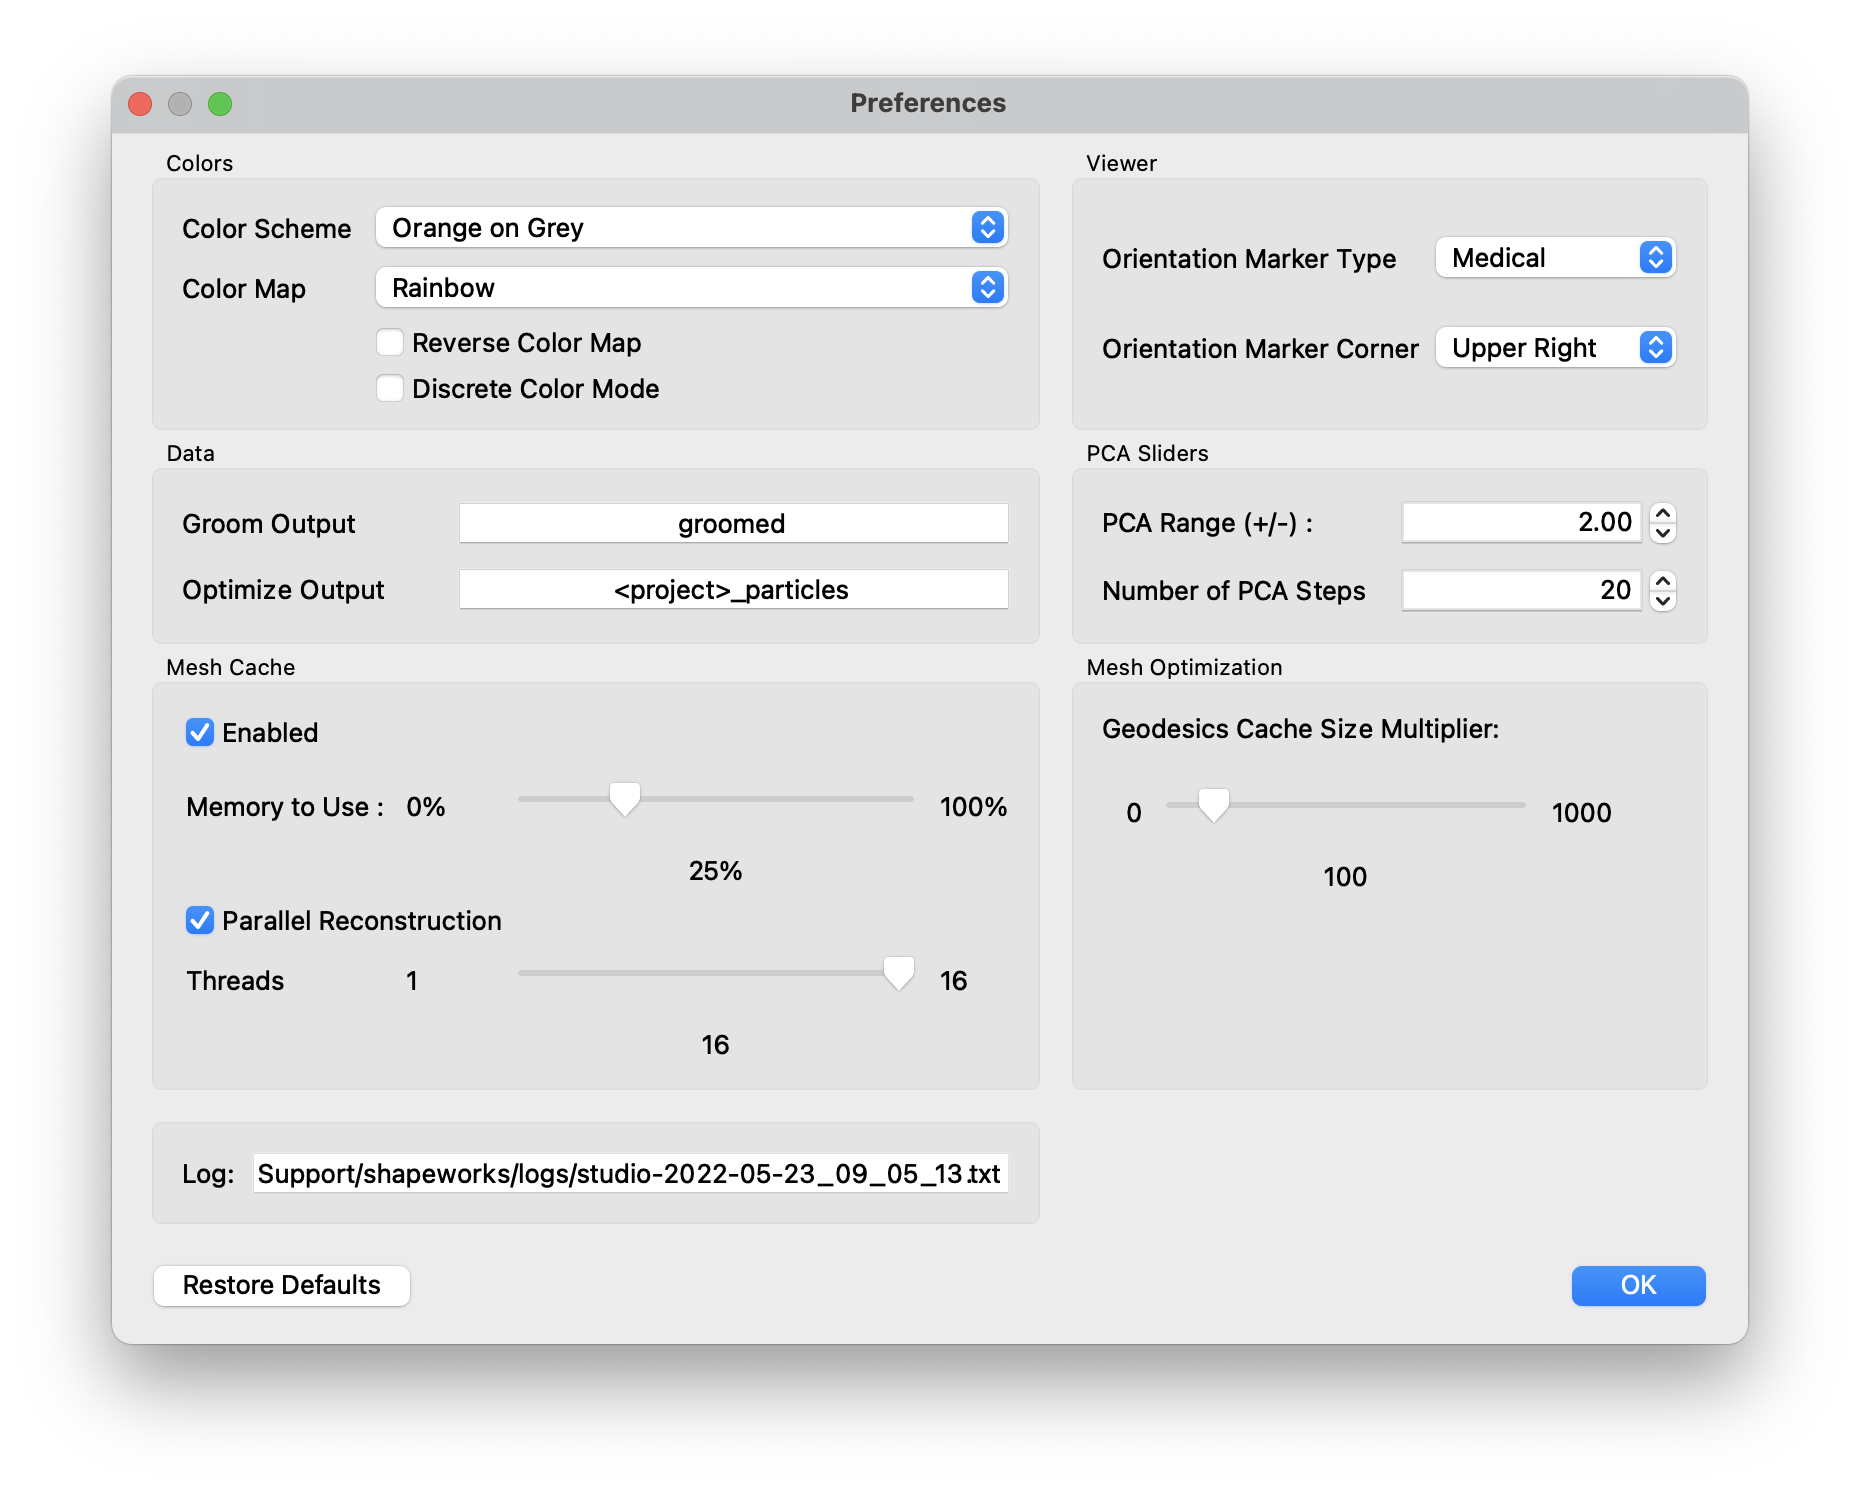
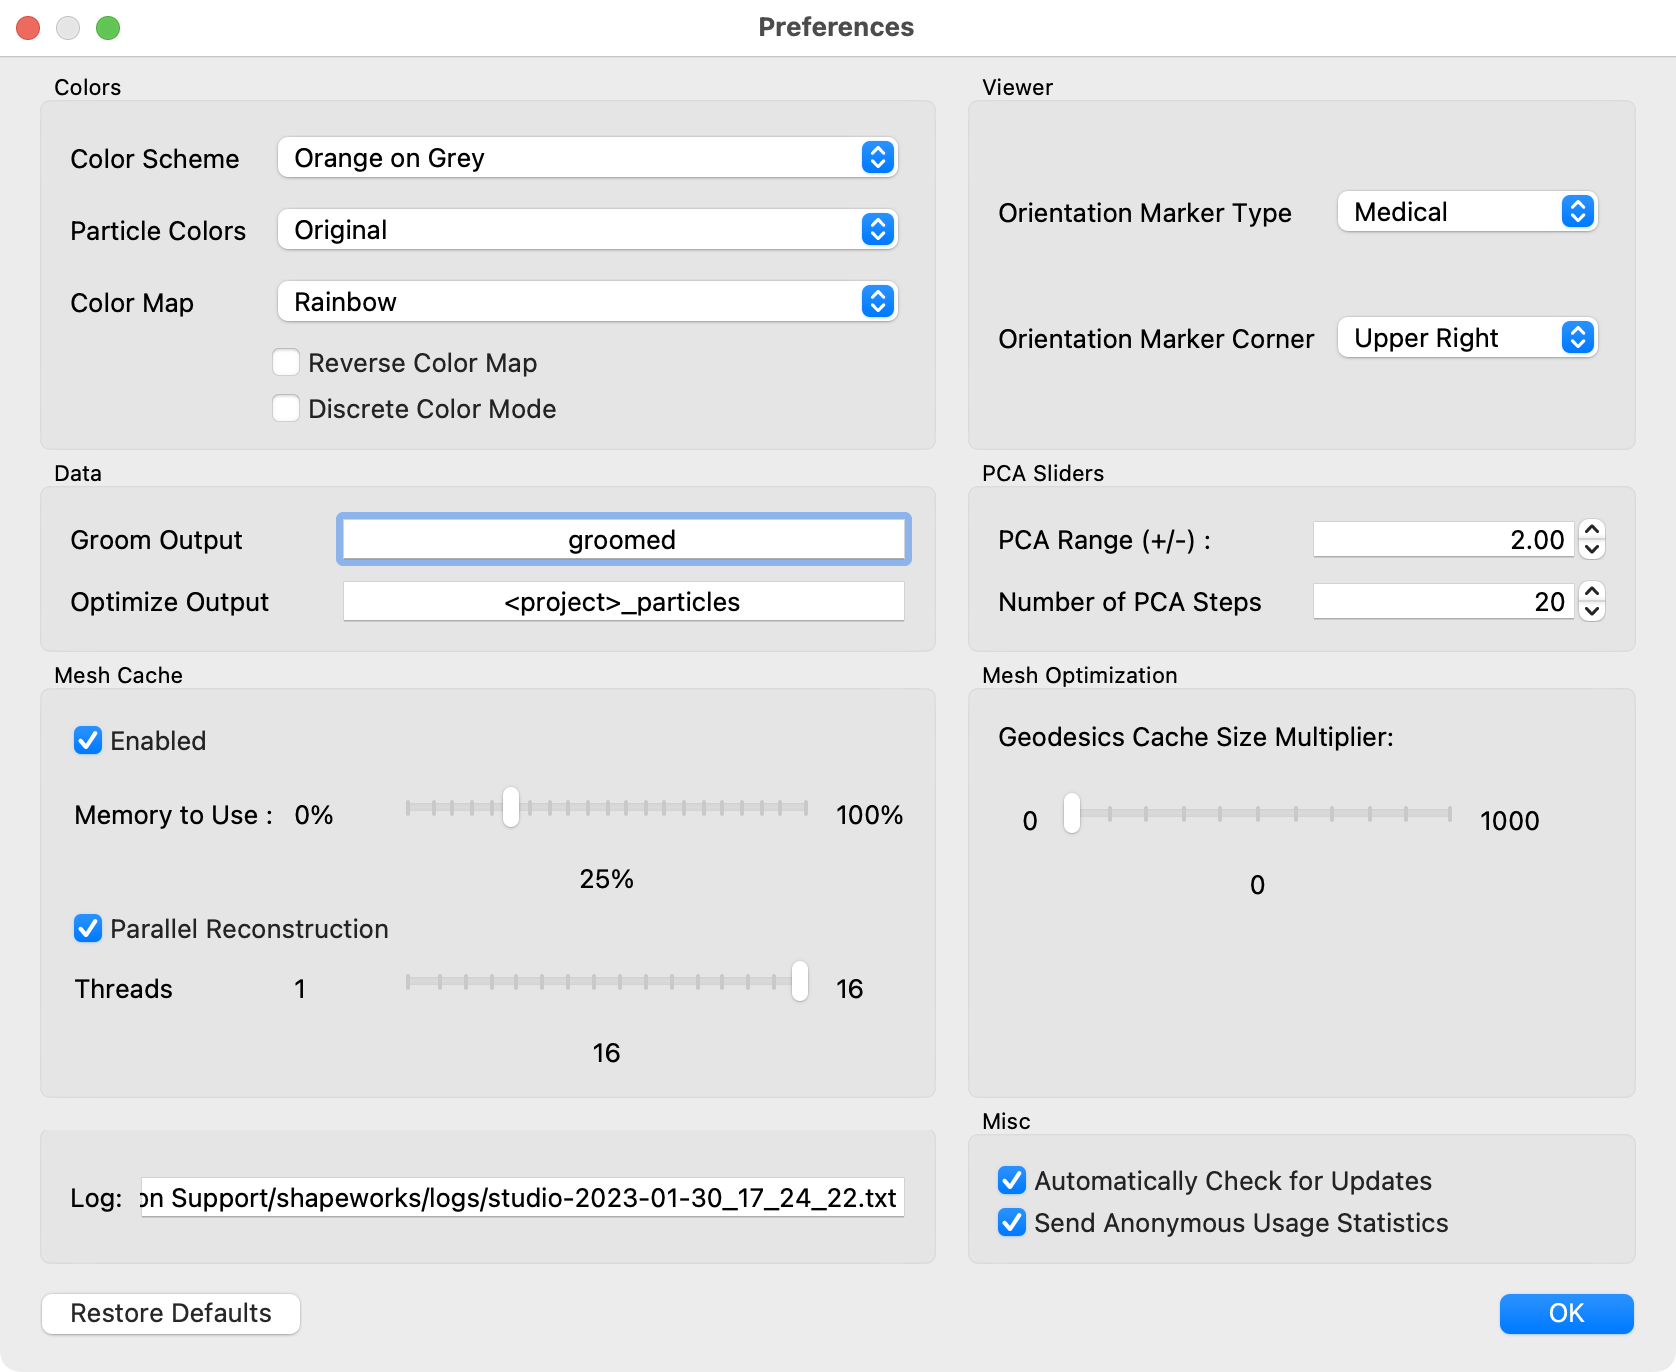
Update user tracking / data collection based on feedback.

diff --git a/Studio/Data/Telemetry.cpp b/Studio/Data/Telemetry.cpp
@@ -18,14 +18,21 @@ Telemetry::Telemetry(Preferences& prefs) : prefs_(prefs) {
 }
 
 void Telemetry::record_event(const QString& name, const QVariantMap& params) {
-  if (!prefs_.get_telemetry_asked()) {
+  if (!prefs_.get_telemetry_asked() || 1) {
     // ask the user if it's ok to collect anonymous usage data
-    int ret = QMessageBox::question(nullptr, "Data Collection",
-                                    "Would you like to help improve ShapeWorks by sending anonymous usage data?",
-                                    QMessageBox::Yes | QMessageBox::No);
+    QMessageBox message_box(QMessageBox::Question, "Data Collection",
+                            "Would you like to help improve ShapeWorks by sending anonymous usage data?<br><br>"
+                            "This can be changed at any time in the preferences window.<br><br>"
+                            "More information can be found <a "
+                            "href=http://sciinstitute.github.io/ShapeWorks/latest/studio/"
+                            "getting-started-with-studio.html#data-collection>here</a>");
+    message_box.setTextFormat(Qt::RichText);
+    message_box.setStandardButtons(QMessageBox::Yes | QMessageBox::No);
+    message_box.exec();
 
+    // check if yes was clicked
+    prefs_.set_telemetry_enabled(message_box.clickedButton() == message_box.button(QMessageBox::Yes));
     prefs_.set_telemetry_asked(true);
-    prefs_.set_telemetry_enabled(ret == QMessageBox::Yes);
   }
 
   auto device_id = prefs_.get_device_id();

diff --git a/Studio/Interface/ShapeWorksStudioApp.cpp b/Studio/Interface/ShapeWorksStudioApp.cpp
@@ -380,7 +380,7 @@ void ShapeWorksStudioApp::on_action_import_triggered() {
 
 //---------------------------------------------------------------------------
 void ShapeWorksStudioApp::splash_screen_closed() {
-  QTimer::singleShot(5000, this, [&]() {
+  QTimer::singleShot(1000, this, [&]() {
     telemetry_.record_event("startup", {});
     update_checker_.run_auto_update_check();
   });

diff --git a/docs/studio/getting-started-with-studio.md b/docs/studio/getting-started-with-studio.md
@@ -63,8 +63,13 @@ Studio provides a number of preference options.
 | Number of PCA Steps | Number of steps for PCA slider bar |
 | Geodesics Cache Size Multiplier |  Multiplier value for geodesics caching |
 | Log Location | A display of where the current log file is located |
-
+| Automatically Check for Updates | Whether Studio should automatically check for updates to ShapeWorks |
+| Send Anonymous Usage Statistics | Whether Studio should send anonymous usage statistics to the ShapeWorks team to help improve the software |
 <br/>
+
+## Data Collection  
+
+ShapeWorks Studio can optionally send anonymous usage statistics to the ShapeWorks team.  This data helps the team by providing basic user tracking numbers that we report to funding agencies to help in acquiring additional funding.  Additionally, we are prospectively collecting a few usage parameters that may aid in development of particular features.  No user data (images, meshes, segmentations, etc) are ever transferred, only basic user event information (e.g. number of times optimize is run).
 
 ## Viewer Controls
 
